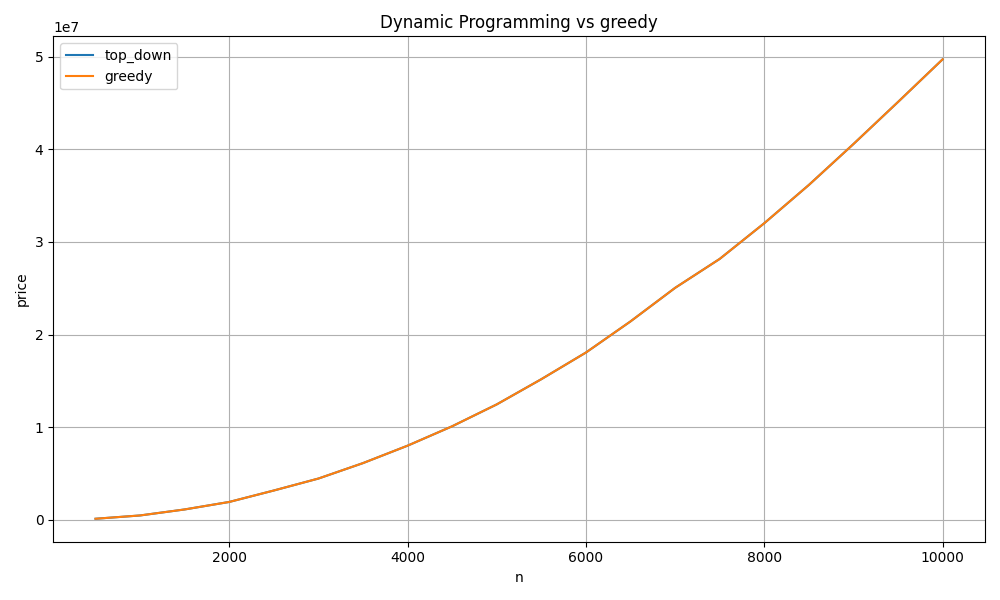
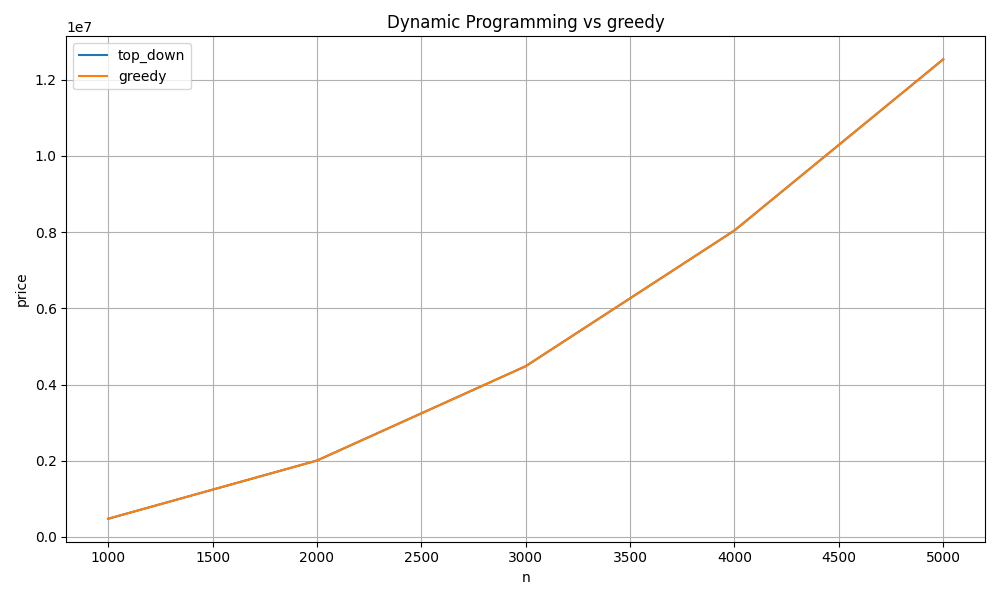
ta bom demais

diff --git a/LogCuttingProblem/main.py b/LogCuttingProblem/main.py
@@ -3,28 +3,29 @@ from time import time
 from mock.generator import LogPriceGenerator
 from algorithms.dynamic_programming import memoized_cut_log
 from algorithms.greedy import greedy_cut_log
-import matplotlib.pyplot as plt # type: ignore
+import matplotlib.pyplot as plt  # type: ignore
 import sys
 
-ALGORITHMS = ['top_down', 'greedy']
-GRAPHIC_TYPES = ['price', 'time']
+ALGORITHMS = ["top_down", "greedy"]
+GRAPHIC_TYPES = ["price", "time"]
 
-def generate_cases(initial: int, final: int, step:int)->dict:
+
+def generate_cases(initial: int, final: int, step: int) -> dict:
     return {
-        n : LogPriceGenerator.generate_random_log_prices(n) for n in range(initial, final+1, step)
+        n: LogPriceGenerator.generate_random_log_prices(n)
+        for n in range(initial, final + 1, step)
     }
 
-def measure_time(prices: list, func)->dict:
+
+def measure_time(prices: list, func) -> dict:
     initial_time = time()
     max_price = func(tuple(prices), len(prices))
     final_time = time()
-    return {'time': final_time - initial_time,
-            'price': max_price}
+    return {"time": final_time - initial_time, "price": max_price}
 
-def process_results(initial: int, final: int, step: int)->dict:
-    # A FUNCAO ABAIXO PARA AUMENTAR A RECURSIVIDADE DO SISTEMA NAO TA FUNCIONANDO
-    # ME AJUDA AMIGO
-    sys.setrecursionlimit(final*2)
+
+def process_results(initial: int, final: int, step: int) -> dict:
+    sys.setrecursionlimit(99999999)
     log_size_price = generate_cases(initial, final, step)
     results = {}
     for log_size in log_size_price.keys():
@@ -33,67 +34,85 @@ def process_results(initial: int, final: int, step: int)->dict:
         for algorithm in ALGORITHMS:
             if algorithm not in results[log_size].keys():
                 results[log_size][algorithm] = -1
-            if algorithm == 'top_down':
-                results[log_size][algorithm] = measure_time(log_size_price[log_size], memoized_cut_log)
-            if algorithm == 'greedy':
-                results[log_size][algorithm] = measure_time(log_size_price[log_size], greedy_cut_log)
-        results[log_size]['perc'] = (results[log_size]['greedy']['price'] * 100) / results[log_size]['top_down']['price']
+            if algorithm == "top_down":
+                results[log_size][algorithm] = measure_time(
+                    log_size_price[log_size], memoized_cut_log
+                )
+            if algorithm == "greedy":
+                results[log_size][algorithm] = measure_time(
+                    log_size_price[log_size], greedy_cut_log
+                )
+        results[log_size]["perc"] = (
+            results[log_size]["greedy"]["price"] * 100
+        ) / results[log_size]["top_down"]["price"]
     return results
 
-def save_and_print_results(results: dict)->None:
-    text = ''
-    line_format = '{:>9}     {:>9}     {:>9}     {:>9}     {:>9}     {:>9}\n'
-    header = line_format.format('n','vDp','tDp','vgreedy','tgreedy','%',)
+
+def save_and_print_results(results: dict) -> None:
+    text = ""
+    line_format = "{:>12}     {:>12}     {:>12}     {:>12}     {:>12}     {:>12}\n"
+    header = line_format.format(
+        "n",
+        "vDp",
+        "tDp",
+        "vgreedy",
+        "tgreedy",
+        "%",
+    )
     text += header
-    text += '-' * len(header) + '\n'
+    text += "-" * len(header) + "\n"
 
     for log_size in results.keys():
         text += line_format.format(
-            '%d' % int(log_size),
-            '%6d' % results[log_size]['top_down']['price'],
-            '%2.6f' % results[log_size]['top_down']['time'],
-            '%6d' % results[log_size]['greedy']['price'],
-            '%2.6f' % results[log_size]['greedy']['time'],
-            '%2.2f' % results[log_size]['perc'],
+            "%d" % int(log_size),
+            "%6d" % results[log_size]["top_down"]["price"],
+            "%2.6f" % results[log_size]["top_down"]["time"],
+            "%6d" % results[log_size]["greedy"]["price"],
+            "%2.6f" % results[log_size]["greedy"]["time"],
+            "%2.2f" % results[log_size]["perc"],
         )
-        text += '\n\n'
-    with open('results_tables.txt', 'w') as file:
+        # text += "\n"
+    with open("results_tables.txt", "w") as file:
         file.write(text)
-    with open('results_tables.json', 'w') as file:
+    with open("results_tables.json", "w") as file:
         json.dump(results, file)
     print(text)
 
-def get_result_axis(results: dict, graphic_type: str, algorithm: str)->tuple:
+
+def get_result_axis(results: dict, graphic_type: str, algorithm: str) -> tuple:
     n_values = results.keys()
     y_values = []
 
     for value in results.values():
         y_values.append(value[algorithm][graphic_type])
-    
+
     return n_values, y_values
 
-def plot_graphics(results: dict)->None:
+
+def plot_graphics(results: dict) -> None:
     for graphic_type in GRAPHIC_TYPES:
         i = 0
-        plt.figure(i, figsize=(10,6))
+        plt.figure(i, figsize=(10, 6))
 
         for algorithm in ALGORITHMS:
             x_axis, y_axis = get_result_axis(results, graphic_type, algorithm)
-            plt.plot(x_axis, y_axis, label=f'{algorithm}')
-        
-        plt.xlabel('n')
+            plt.plot(x_axis, y_axis, label=f"{algorithm}")
+
+        plt.xlabel("n")
         plt.ylabel(graphic_type)
-        plt.title('Dynamic Programming vs greedy')
+        plt.title("Dynamic Programming vs greedy")
         plt.grid(True)
         plt.tight_layout()
         plt.legend()
-        plt.savefig(f'./results/{graphic_type}.png')
+        plt.savefig(f"./results/{graphic_type}.png")
         plt.show()
-        i+=1
+        i += 1
 
-        
 
-if __name__ == '__main__':
-    results = process_results(500, 10000, 500)
+if __name__ == "__main__":
+    initial = int(input("Tamanho Inicial: "))
+    final = int(input("Tamanho Final: "))
+    step = int(input("Step: "))
+    results = process_results(initial, final, step)
     save_and_print_results(results)
     plot_graphics(results)

diff --git a/LogCuttingProblem/algorithms/greedy.py b/LogCuttingProblem/algorithms/greedy.py
@@ -1,23 +1,23 @@
 from functools import cache, lru_cache
 
 
-def cutting_rod_greedy(prices: list, n: int):
-    max_profit = 0
+# def greedy_cut_log(prices: list, n: int):
+#     max_profit = 0
 
-    while n > 0:
-        best_price_index = -1
-        best_price_per_unit = 0
+#     while n > 0:
+#         best_price_index = -1
+#         best_price_per_unit = 0
 
-        for i in range(min(len(prices), n)):
-            price_per_unit = prices[i] / (i + 1)
-            if price_per_unit > best_price_per_unit:
-                best_price_per_unit = price_per_unit
-                best_price_index = i
+#         for i in range(min(len(prices), n)):
+#             price_per_unit = prices[i] / (i + 1)
+#             if price_per_unit > best_price_per_unit:
+#                 best_price_per_unit = price_per_unit
+#                 best_price_index = i
 
-        max_profit += prices[best_price_index]
-        n -= best_price_index + 1
+#         max_profit += prices[best_price_index]
+#         n -= best_price_index + 1
 
-    return max_profit
+#     return max_profit
 
 
 def greedy_cut_log(prices: list, n: int) -> int:

diff --git a/LogCuttingProblem/algorithms/dynamic_programming.py b/LogCuttingProblem/algorithms/dynamic_programming.py
@@ -1,40 +1,19 @@
-# Top-Down Approach
-from functools import cache, lru_cache
-
-# def memoized_cut_log(prices: list, n: int, memo: dict = None)->int:
-#     if memo == None:
-#         memo = {}
-#     if n<=0:
-#         return 0
-    
-#     max_price = float('-inf')
-
-#     if memo.get(n, None)!= None:
-#         return memo[n]
-    
-#     for i in range(n):
-#         max_price = max(max_price, prices[i] + memoized_cut_log(prices, n-i-1, memo))
-
-#     memo[n] = max_price
-    
-#     return memo[n]
-
 def memoized_cut_log(prices: list, n: int, memo: dict = None) -> int:
     if memo is None:
         memo = {}
-    
+
     if n <= 0:
         return 0
 
     if n in memo:
         return memo[n]
-    
-    max_price = float('-inf')
+
+    max_price = float("-inf")
 
     for i in range(n):
         current_price = prices[i] + memoized_cut_log(prices, n - i - 1, memo)
         max_price = max(max_price, current_price)
 
     memo[n] = max_price
-    
+
     return max_price
